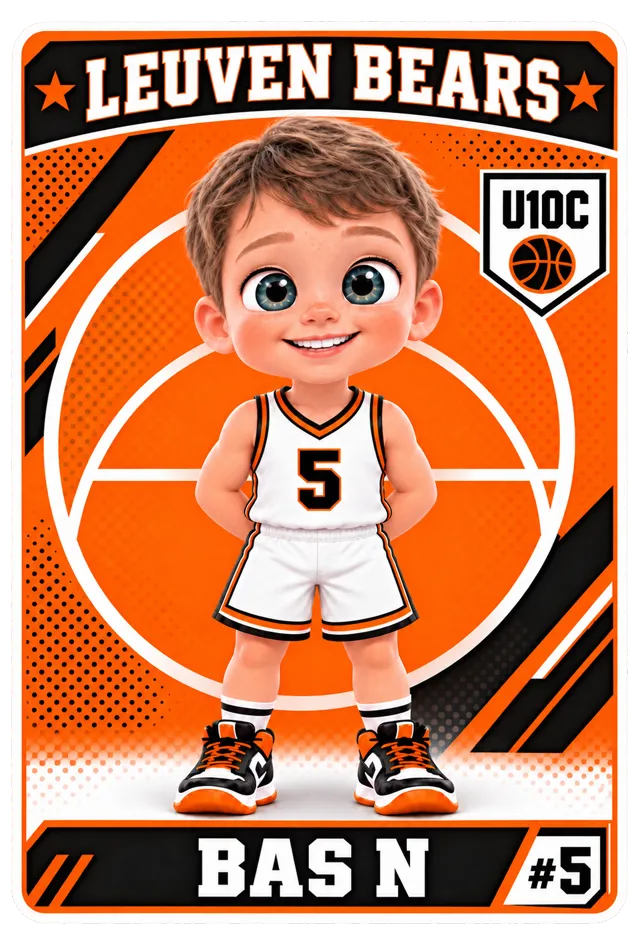
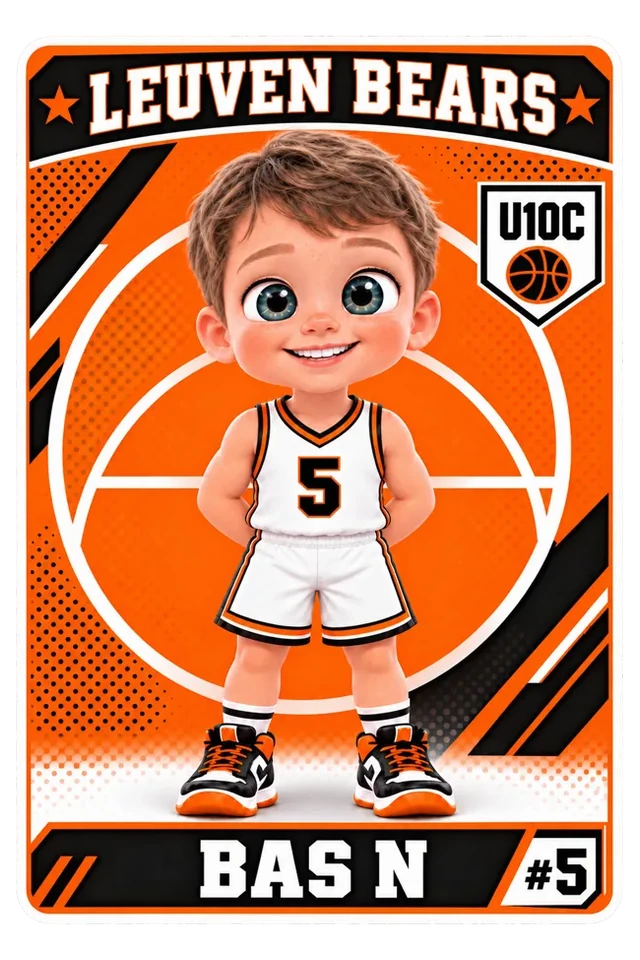
Normalize player sticker padding so cards match in the grid.
Thomas, Bas D, and Sam filled their PNGs tighter than the other player
cards, so object-fit:contain still made them look larger. Re-export all
player stickers onto a shared 640×960 canvas with the same card padding.

diff --git a/src/data/players.ts b/src/data/players.ts
@@ -51,7 +51,7 @@ export type Player = {
 /** Prefer explicit stickerSrc; Thomas still matches by first name as a fallback. */
 export function playerStickerSrc(player: Player): string | undefined {
   if (player.stickerSrc) return player.stickerSrc
-  if (player.firstName === 'Thomas') return '/stickers/thomas.webp'
+  if (player.firstName === 'Thomas') return '/stickers/thomas.webp?v=pad'
   return undefined
 }
 
@@ -66,7 +66,7 @@ export const players: Player[] = [
     move: 'arm-roll',
     moveLabel: 'Arm-roll',
     look: { hair: '#f0d078', skin: '#f5c7a1', hairStyle: 'short' },
-    stickerSrc: '/stickers/alfred.webp',
+    stickerSrc: '/stickers/alfred.webp?v=pad',
   },
   {
     id: 'p10',
@@ -78,7 +78,7 @@ export const players: Player[] = [
     move: 'shoulder-roll',
     moveLabel: 'Schouder-roll',
     look: { hair: '#dcc06e', skin: '#ebc09a', hairStyle: 'bowl' },
-    stickerSrc: '/stickers/bas-n.webp',
+    stickerSrc: '/stickers/bas-n.webp?v=pad',
   },
   {
     id: 'p8',
@@ -112,7 +112,7 @@ export const players: Player[] = [
     move: 'spin-move',
     moveLabel: 'Spin-move',
     look: { hair: '#edd98a', skin: '#f0c4a0', hairStyle: 'spiky' },
-    stickerSrc: '/stickers/jarne.webp',
+    stickerSrc: '/stickers/jarne.webp?v=pad',
   },
   {
     id: 'p12',
@@ -124,7 +124,7 @@ export const players: Player[] = [
     move: 'dunk',
     moveLabel: 'Dunk',
     look: { hair: '#e6c870', skin: '#eec4a2', hairStyle: 'short' },
-    stickerSrc: '/stickers/thomas.webp',
+    stickerSrc: '/stickers/thomas.webp?v=pad',
   },
   {
     id: 'p9',
@@ -143,7 +143,7 @@ export const players: Player[] = [
       cheek: '#e8a090',
       eyeStyle: 'soft',
     },
-    stickerSrc: '/stickers/jia-le.webp',
+    stickerSrc: '/stickers/jia-le.webp?v=pad',
   },
   {
     id: 'p6',
@@ -155,7 +155,7 @@ export const players: Player[] = [
     move: 'behind-head',
     moveLabel: 'No-look',
     look: { hair: '#c9a84a', skin: '#e0b088', hairStyle: 'curly' },
-    stickerSrc: '/stickers/bas-d.webp',
+    stickerSrc: '/stickers/bas-d.webp?v=pad',
   },
   {
     id: 'p3',
@@ -167,7 +167,7 @@ export const players: Player[] = [
     move: 'between-legs',
     moveLabel: 'Tussenbenen',
     look: { hair: '#ffe8a8', skin: '#f8d4b8', hairStyle: 'short' },
-    stickerSrc: '/stickers/elias.webp',
+    stickerSrc: '/stickers/elias.webp?v=pad',
   },
   {
     id: 'p4',
@@ -179,7 +179,7 @@ export const players: Player[] = [
     move: 'behind-back',
     moveLabel: 'Achterlangs',
     look: { hair: '#d4b45a', skin: '#e8b48a', hairStyle: 'short' },
-    stickerSrc: '/stickers/felix.webp',
+    stickerSrc: '/stickers/felix.webp?v=pad',
   },
   {
     id: 'p5',
@@ -191,7 +191,7 @@ export const players: Player[] = [
     move: 'crossover',
     moveLabel: 'Crossover',
     look: { hair: '#d4b45a', skin: '#f2c9a8', hairStyle: 'short' },
-    stickerSrc: '/stickers/sam.webp',
+    stickerSrc: '/stickers/sam.webp?v=pad',
   },
   {
     id: 'p11',
@@ -203,6 +203,6 @@ export const players: Player[] = [
     move: 'layup',
     moveLabel: 'Lay-up',
     look: { hair: '#d4b45a', skin: '#f6d0b0', hairStyle: 'short' },
-    stickerSrc: '/stickers/jacob.webp',
+    stickerSrc: '/stickers/jacob.webp?v=pad',
   },
 ]

diff --git a/scripts/normalize-player-stickers.py b/scripts/normalize-player-stickers.py
@@ -1,0 +1,126 @@
+#!/usr/bin/env python3
+"""Re-export player Panini stickers onto a shared 640×960 canvas.
+
+Some source WebPs (especially thomas, bas-d, sam) fill the frame tighter than
+the others. CSS slots are already 2:3 + object-fit:contain, so tighter artwork
+reads as a larger card. This script detects the solid card (white/orange frame)
+and places every player sticker with the same relative padding.
+
+Does not touch staff, groep, embleem, or jersey assets.
+"""
+
+from __future__ import annotations
+
+from pathlib import Path
+
+import numpy as np
+from PIL import Image
+
+ROOT = Path(__file__).resolve().parents[1]
+STICKER_DIR = ROOT / "public" / "stickers"
+
+PLAYERS = [
+    "alfred",
+    "bas-d",
+    "bas-n",
+    "elias",
+    "felix",
+    "jacob",
+    "jarne",
+    "jia-le",
+    "sam",
+    "thomas",
+]
+
+CANVAS_W = 640
+CANVAS_H = 960
+# Match the looser-framed player cards (Jarne / Jia Le / Elias / Felix / Jacob).
+PAD_X = 0.027
+PAD_Y = 0.028
+SOLID_ALPHA = 200
+WEBP_QUALITY = 90
+
+
+def solid_card_bbox(arr: np.ndarray) -> tuple[int, int, int, int]:
+    """Bounding box of the opaque white/orange card (not the soft drop shadow)."""
+    alpha = arr[:, :, 3]
+    solid = alpha >= SOLID_ALPHA
+    if not solid.any():
+        solid = alpha >= 16
+    if not solid.any():
+        raise ValueError("no opaque card pixels")
+    rows = np.where(np.any(solid, axis=1))[0]
+    cols = np.where(np.any(solid, axis=0))[0]
+    y0, y1 = int(rows[0]), int(rows[-1]) + 1
+    x0, x1 = int(cols[0]), int(cols[-1]) + 1
+    return x0, y0, x1, y1
+
+
+def normalize(im: Image.Image) -> Image.Image:
+    src = im.convert("RGBA")
+    arr = np.array(src)
+    x0, y0, x1, y1 = solid_card_bbox(arr)
+    card_w = x1 - x0
+    card_h = y1 - y0
+
+    inner_w = CANVAS_W * (1.0 - 2.0 * PAD_X)
+    inner_h = CANVAS_H * (1.0 - 2.0 * PAD_Y)
+    scale = min(inner_w / card_w, inner_h / card_h)
+
+    new_card_w = card_w * scale
+    new_card_h = card_h * scale
+    dest_x = (CANVAS_W - new_card_w) / 2.0
+    dest_y = (CANVAS_H - new_card_h) / 2.0
+
+    # Map the whole source so drop-shadow / AA outside the solid bbox is kept.
+    scaled_w = max(1, int(round(src.width * scale)))
+    scaled_h = max(1, int(round(src.height * scale)))
+    scaled = src.resize((scaled_w, scaled_h), Image.Resampling.LANCZOS)
+
+    paste_x = int(round(dest_x - x0 * scale))
+    paste_y = int(round(dest_y - y0 * scale))
+
+    canvas = Image.new("RGBA", (CANVAS_W, CANVAS_H), (0, 0, 0, 0))
+    canvas.alpha_composite(scaled, (paste_x, paste_y))
+    return canvas
+
+
+def metrics(path: Path) -> dict[str, float]:
+    arr = np.array(Image.open(path).convert("RGBA"))
+    h, w = arr.shape[:2]
+    x0, y0, x1, y1 = solid_card_bbox(arr)
+    return {
+        "w": w,
+        "h": h,
+        "card_w": x1 - x0,
+        "card_h": y1 - y0,
+        "fill_w": (x1 - x0) / w,
+        "fill_h": (y1 - y0) / h,
+        "pad_l": x0 / w,
+        "pad_r": (w - x1) / w,
+        "pad_t": y0 / h,
+        "pad_b": (h - y1) / h,
+    }
+
+
+def main() -> None:
+    print(
+        f"canvas={CANVAS_W}x{CANVAS_H}  pad_x={PAD_X:.3f}  pad_y={PAD_Y:.3f}  "
+        f"inner={CANVAS_W * (1 - 2 * PAD_X):.1f}x{CANVAS_H * (1 - 2 * PAD_Y):.1f}"
+    )
+    for name in PLAYERS:
+        path = STICKER_DIR / f"{name}.webp"
+        before = metrics(path)
+        src = Image.open(path)
+        out = normalize(src)
+        out.save(path, format="WEBP", quality=WEBP_QUALITY, method=6)
+        after = metrics(path)
+        print(
+            f"{name:8s}  {before['w']:.0f}x{before['h']:.0f} fill={before['fill_w']:.3f}x{before['fill_h']:.3f}"
+            f"  ->  {after['w']:.0f}x{after['h']:.0f} fill={after['fill_w']:.3f}x{after['fill_h']:.3f}"
+            f"  pad LRTB={after['pad_l']:.3f}/{after['pad_r']:.3f}/{after['pad_t']:.3f}/{after['pad_b']:.3f}"
+        )
+
+
+if __name__ == "__main__":
+    main()
